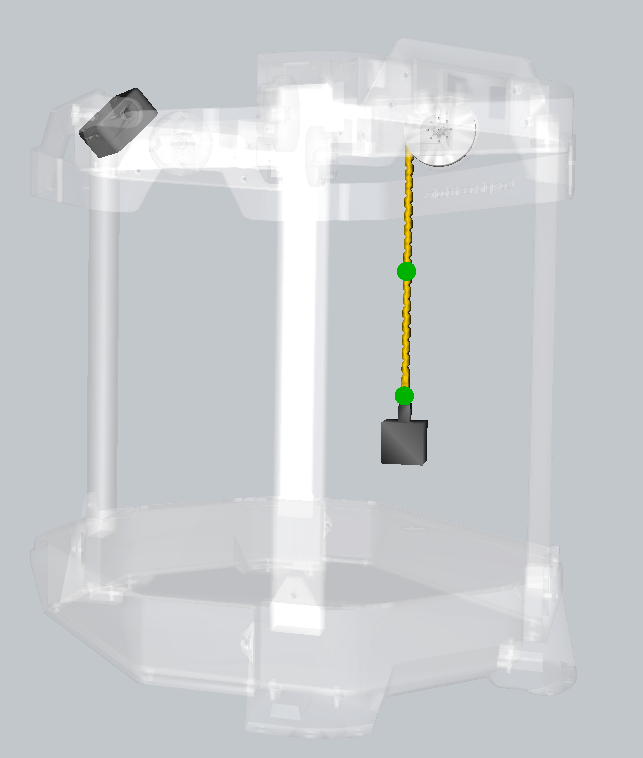
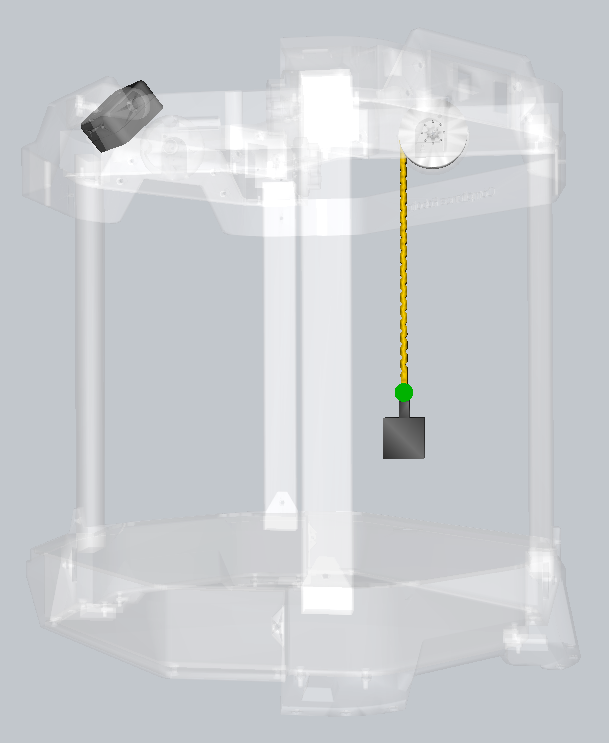
remove one marker

diff --git a/scripts/hardware.py b/scripts/hardware.py
@@ -13,7 +13,7 @@ lab_path = os.path.dirname(os.path.dirname(os.path.realpath(__file__)))
 data_path = os.path.join(lab_path, "data")
 
 
-nbMarkers = 2  # Number of markers to track
+nbMarkers = 1  # Number of markers to track
 ControlMode = {"Open Loop": False, "Closed Loop": True}
 
 
@@ -298,13 +298,7 @@ def processController(trackerPos, sharedMotorPos, sharedRefPos, sharedStart, sha
         # Measurements
         with trackerPos.get_lock():
             measure = np.array(trackerPos[:])
-
-        # order the markers
-        pos = measure.reshape(nbMarkers, 3)
-        i_sorted_y = sorted([0, 1], key=lambda i: pos[i, 1])
-        new_order = [i_sorted_y[0], i_sorted_y[1]]
-        pos_sorted = pos[new_order]
-        measure = pos_sorted.flatten()
+        measure = measure.flatten()
 
         # Filter the measurements
         measureFiltered = filterFirstOder(measure, measureFiltered,

diff --git a/lab_pid.py b/lab_pid.py
@@ -210,7 +210,7 @@ def createScene(rootnode):
     ##############################################################################
     markers = leg.leg.addChild("Markers")
     markers.addObject("MechanicalObject",
-                      position=[[-5, -191, -22.5], [-5, -100, -22.5]],
+                      position=[[-5, -191, -22.5]],
                       translation=translation,
                       showObject=True, showObjectScale=7, drawMode=1, showColor=[0, 1, 0, 1])
     markers.addObject("BarycentricMapping" if args.legModel == "tetra" else "SkinningMapping")
